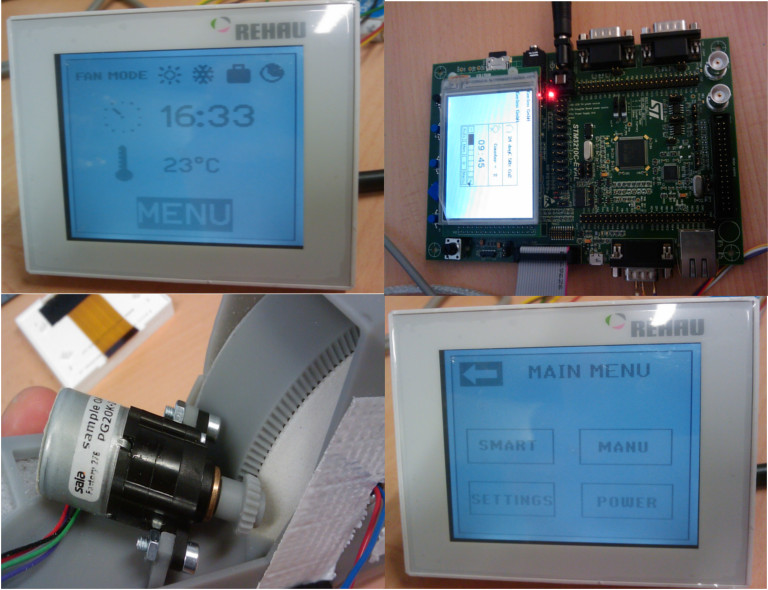
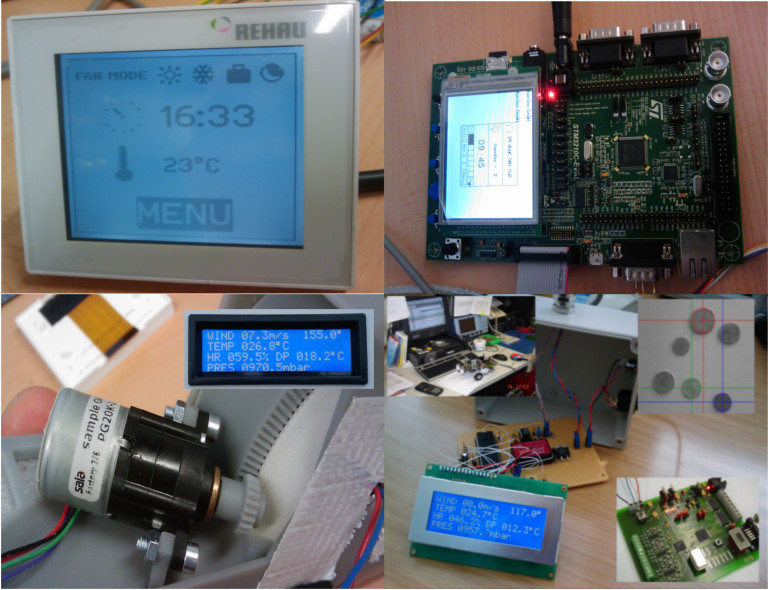
1 Lowering and grouping the number of projects in the portfolio to make it simpler and easier for the viewer-client to follow and understand. 2 Adding the references section.

Changed region(s): [[0.2188, 0.4881, 1.0, 1.0]]

diff --git a/index.html b/index.html
@@ -459,7 +459,7 @@
                         <div class="item col-sm-6 col-md-3">
                             <div class="project-wrapper">
                                 <div class="project-link">
-                                    <a href="assets/images/portfolio/project-image-7.jpg" class="zoom" title="Embedded Systems, Motor DC Stepper, Hall, Temp, Hum sensors, I2C, SPI, Distributed communication, digital control, HMI GUI Design for Touch Screens (Serial communication, embedded system programming and debugging ...)">
+                                    <a href="assets/images/portfolio/project-image-7.jpg" class="zoom" title="Embedded Systems, Motor DC Stepper, Hall, Temp, Hum sensors, I2C, SPI, LCD, GPS, GSM, Distributed systems communication, digital control, HMI GUI Design for Touch Screens (Programming, debugging, prototyping, pcb design, wirebonding, ...)">
                                         <!--i class="icon-Full-Screen"></i-->
                                         <i class="fa fa-arrows-alt"></i>
                                     </a>
@@ -483,110 +483,110 @@
 
 
 
-                        <div class="item col-sm-6 col-md-3">
+                        <!--div class="item col-sm-6 col-md-3">
                             <div class="project-wrapper">
                                 <div class="project-link">
                                     <a href="assets/images/portfolio/project-image-9.jpg" class="zoom" title="Prototyping, embedded systems, pcb design, wirebonding, serial communication, distributed systems, LCD, GPS, GSM ...">
                                        <!--i class="icon-Full-Screen"></i-->
-                                        <i class="fa fa-arrows-alt"></i>
+                                        <!--i class="fa fa-arrows-alt"></i>
                                     </a>
 
                                     <!--a href="portfolio-projects-1.html" class="external-link"-->
-                                        <i class="fa fa-link"></i>
+                                        <!--i class="fa fa-link"></i>
                                     </a>
                                 </div>
                                 <!-- //.project-link -->
 
-                                <div class="project-title">
+                                <!--div class="project-title">
                                     <h4>Prototyping, Designing Embedded Systems</h4>
                                 </div>
                                 <!-- //.project-title -->
 
-                                <img src="assets/images/portfolio/project-image-9.jpg" alt="" class="img-responsive"/>
+                                <!--img src="assets/images/portfolio/project-image-9.jpg" alt="" class="img-responsive"/>
                             </div>
                             <!-- //.project-wrapper -->
-                        </div>
+                        <!--/div>
                         <!-- //.item -->
 
 
 
-                        <div class="item col-sm-6 col-md-3">
+                        <!--div class="item col-sm-6 col-md-3">
                             <div class="project-wrapper">
                                 <div class="project-link">
                                     <a href="assets/images/portfolio/project-image-8.jpg" class="zoom" title="Software Application to automate articles' selection task in an assembly production line. (Physics, Mathematical model, Report generation, GUI design, R-W to files .NET, VB6)">
                                         <!--i class="icon-Full-Screen"></i-->
-                                        <i class="fa fa-arrows-alt"></i>
+                                        <!--i class="fa fa-arrows-alt"></i>
                                     </a>
 
                                     <!--a href="portfolio-projects-1.html" class="external-link"-->
-                                        <i class="fa fa-link"></i>
+                                        <!--i class="fa fa-link"></i>
                                     </a>
                                 </div>
                                 <!-- //.project-link -->
 
-                                <div class="project-title">
+                                <!--div class="project-title">
                                     <h4>Software Application to automate tasks</h4>
                                 </div>
                                 <!-- //.project-title -->
 
-                                <img src="assets/images/portfolio/project-image-8.jpg" alt="" class="img-responsive"/>
+                                <!--img src="assets/images/portfolio/project-image-8.jpg" alt="" class="img-responsive"/>
                             </div>
                             <!-- //.project-wrapper -->
-                        </div>
+                        <!--/div>
                         <!-- //.item -->
                         
                         
                      
-                        <div class="item col-sm-6 col-md-3">
+                        <!--div class="item col-sm-6 col-md-3">
                             <div class="project-wrapper">
                                 <div class="project-link">
                                     <a href="assets/images/portfolio/project-image-10.jpg" class="zoom" title="Software Development for the HC2-S HygroClip Probe instruments (Temperature and Humidity)">
                                         <!--i class="icon-Full-Screen"></i-->
-                                        <i class="fa fa-arrows-alt"></i>
+                                        <!--i class="fa fa-arrows-alt"></i>
                                     </a>
 
                                     <!--a href="portfolio-projects-1.html" class="external-link"-->
-                                        <i class="fa fa-link"></i>
+                                        <!--i class="fa fa-link"></i>
                                     </a>
                                 </div>
                                 <!-- //.project-link -->
 
-                                <div class="project-title">
+                                <!--div class="project-title">
                                     <h4>Software Development for instruments</h4>
                                 </div>
                                 <!-- //.project-title -->
 
-                                <img src="assets/images/portfolio/project-image-10.jpg" alt="" class="img-responsive"/>
+                                <!--img src="assets/images/portfolio/project-image-10.jpg" alt="" class="img-responsive"/>
                             </div>
                             <!-- //.project-wrapper -->
-                        </div>
+                        <!--/div>
                         <!-- //.item -->
                                                                    
                     
                         
-                        <div class="item col-sm-6 col-md-3">
+                        <!--div class="item col-sm-6 col-md-3">
                             <div class="project-wrapper">
                                 <div class="project-link">
                                     <a href="assets/images/portfolio/project-image-15.jpg" class="zoom" title="ODBII Software development ">
                                        <!--i class="icon-Full-Screen"></i-->
-                                        <i class="fa fa-arrows-alt"></i>
+                                        <!--i class="fa fa-arrows-alt"></i>
                                     </a>
 
                                     <!--a href="portfolio-projects-1.html" class="external-link"-->
-                                        <i class="fa fa-link"></i>
+                                        <!--i class="fa fa-link"></i>
                                     </a>
                                 </div>
                                 <!-- //.project-link -->
 
-                                <div class="project-title">
+                                <!--div class="project-title">
                                     <h4>ODBII Software development</h4>
                                 </div>
                                 <!-- //.project-title -->
 
-                                <img src="assets/images/portfolio/project-image-15.jpg" alt="" class="img-responsive"/>
+                                <!--img src="assets/images/portfolio/project-image-15.jpg" alt="" class="img-responsive"/>
                             </div>
                             <!-- //.project-wrapper -->
-                        </div>
+                        <!--/div>
                         <!-- //.item -->
                                        
                         
@@ -1232,7 +1232,7 @@ Robotic systems laboratory Lausanne, Switzerland.</h4>
     
     
     <!-- REFERENCES SECTION START -->
-    <!--section id="references" class="section bg-image-yes">
+    <section id="references" class="section bg-image-yes">
         <div class="container-fluid section-wrapper">
             <div class="section-content">
                 <div class="row">
@@ -1244,61 +1244,82 @@ Robotic systems laboratory Lausanne, Switzerland.</h4>
                         <span class="divider center"></span>
                     </div>
                     <!-- //.col-md-12 -->
-                <!--/div>
+                </div>
                 <!-- //.row -->
                 
-                <!--div class="row">
+                <div class="row">
                     <div class="col-md-10 col-md-offset-1">
                         <div class="flexslider references">
                             <div class="slides">
                                 <div class="item">
                                     <div class="animated" data-animation-effect="flipInX">
-                                        <div class="profile hidden-xs">
+                                        <!--div class="profile hidden-xs">
                                             <img src="assets/images/references/profile-image-1.jpg" alt="" class="img-responsive img-circle img-thumbnail"/>
-                                        </div>
+                                        </div-->
 
                                         <div class="content">
-                                            <h3>Lorena Group</h3>
+                                            <h3>ELBW TECHNOLOGY SA</h3>
 
                                             <p>
-                                                "Akram is officially the man! His level of professionalism and the understanding of the subject matter is the reason i will be looking forward to working with him in the future."
+                                                "We take the opportunity of thank Mr Akram M'Tir for his loyal collaboration throughout these last years. He never hesitated to work on week-ends and evenings when it was necessary for our company. We wish him all the best and every success in his professional future and we can only regret his departure. We strongly recommend him to any employer who wishes to recruit him."
                                             </p>
 
                                             <p class="source">
-                                                Eka Sari Lorena
+                                                ELBW TECHNOLOGY SA
                                                 <br>
-                                                <span>President Director</span>
+                                                <span>January 2011, YVERDON-LES_BAINS, SWITZERLAND</span>
                                             </p>
                                         </div>
                                         <!-- //.content -->
-                                    <!--/div>
+                                    </div>
                                     <!-- //.animated -->
-                                <!--/div>
+                                </div>
                                 <!-- //.item -->
 
-                                <!--div class="item">
+                                <div class="item">
                                     <div class="animated" data-animation-effect="flipInX">
-                                        <div class="profile hidden-xs">
-                                            <img src="assets/images/references/profile-image-2.jpg" alt="" class="img-responsive img-circle img-thumbnail"/>
-                                        </div>
+
 
                                         <div class="content">
-                                            <h3>NET TV</h3>
+                                            <h3>EXELEN GMBH</h3>
 
                                             <p>
-                                                "As always Akram did an excellent job in just few hours. Great communication and fast excecution. Thanks for great work :)"
+                                                "Mr Akram M'Tir quickly mastered the knowledge required, that we taught to him, in order to complete our ongoing projects. He finished his internship free of any commitment, except the obligation of professional secrecy mentioned in his contract. We also thank him for working overtime and wish him every success in his professional future career."
                                             </p>
 
                                             <p class="source">
-                                                Wishnutama Kusubandio
+                                               EXELEN GMBH
                                                 <br>
-                                                <span>CO-FOUNDER / CEO</span>
+                                                <span>May 2012, FRIBOURG, SWITZERLAND</span>
                                             </p>
                                         </div>
                                         <!-- //.content -->
-                                    <!--/div>
+                                    </div>
                                     <!-- //.animated -->
-                                <!--/div>
+                                </div>
+                                <!-- //.item -->
+                                
+                                
+                                                                <div class="item">
+                                    <div class="animated" data-animation-effect="flipInX">
+
+
+                                        <div class="content">
+                                            <h3>University Of Birmingham, England.</h3>
+
+                                            <p> Mr Akram M'Tir is officially the man! His level of professionalism and the understanding of the subject matter is the reason i will be looking forward to working with him in the future. As always, he did an excellent job in just few hours. Great communication and fast execution. Thanks for great work :)  
+                                            </p>
+
+                                            <p class="source">
+                                               Project colleague, team mate
+                                                <br>
+                                                <span>December 2014, BIRMINGHAM, ENGLAND</span>
+                                            </p>
+                                        </div>
+                                        <!-- //.content -->
+                                    </div>
+                                    <!-- //.animated -->
+                                </div>
                                 <!-- //.item -->
 
                                 <!--div class="item">
@@ -1418,15 +1439,15 @@ Robotic systems laboratory Lausanne, Switzerland.</h4>
                             </ul>
                         </div>
                         <!-- //.flexslider -->
-                    <!--/div>
+                    </div>
                     <!-- //.col-md-8 -->
-                <!--/div>
+                </div>
                 <!-- //.row -->
-            <!--/div>
+            </div>
             <!-- //.section-content -->
-        <!--/div>
+        </div>
         <!-- //.container -->
-    <!--/section>
+    </section>
     <!-- //REFERENCES SECTION END -->
     
     
